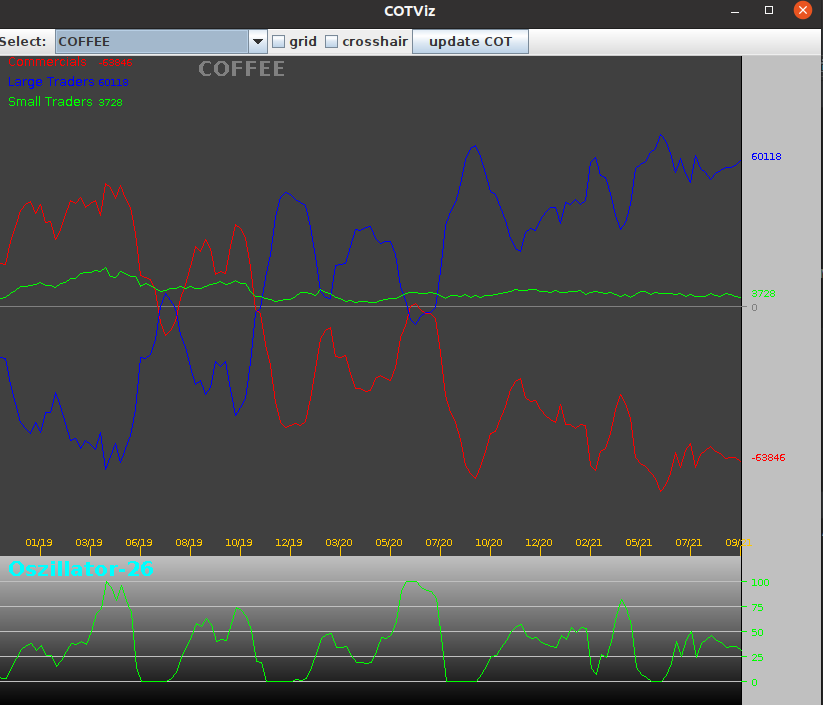
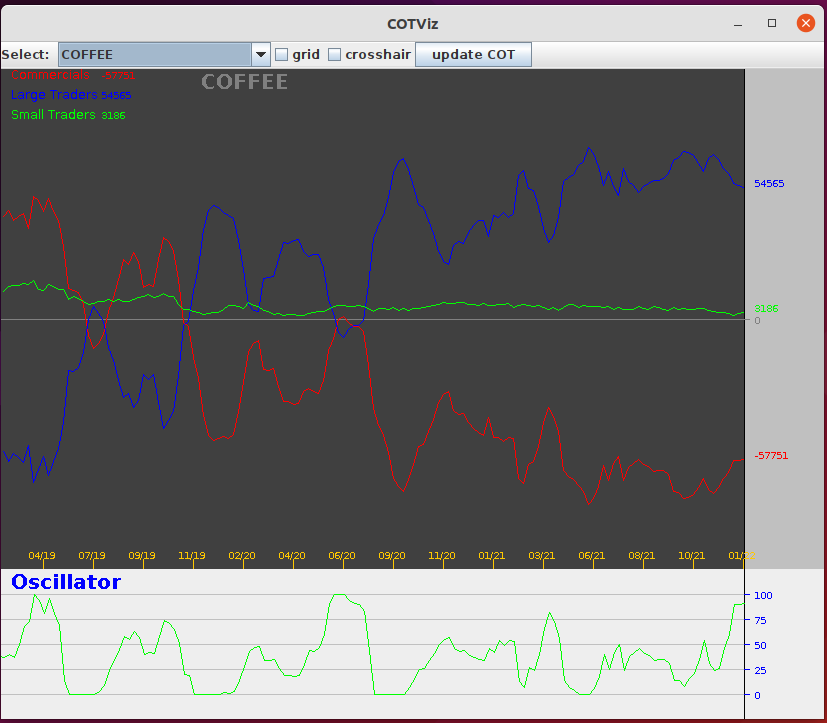
changed color

diff --git a/src/OscillatorPanel.java b/src/OscillatorPanel.java
@@ -30,17 +30,17 @@ public class OscillatorPanel extends JPanel{
         Point point1 = new Point(getWidth()/2, 0);
         Point point2 = new Point(getWidth()/2, getHeight());
 
-        Color color1 = Color.LIGHT_GRAY;
-        Color color2 = Color.BLACK;
-        final GradientPaint gp = new GradientPaint(point1, color1, point2, color2, true);
-        final Graphics2D g2 = (Graphics2D) g;
-        g2.setPaint(gp);
-        g.fillRect(0, 0, getWidth(), getHeight());
+        //Color color1 = Color.LIGHT_GRAY;
+        //Color color2 = Color.BLACK;
+        //final GradientPaint gp = new GradientPaint(point1, color1, point2, color2, true);
+        //final Graphics2D g2 = (Graphics2D) g;
+        //g2.setPaint(gp);
+        //g.fillRect(0, 0, getWidth(), getHeight());
 
-        g.setColor(Color.LIGHT_GRAY);
-        g.fillRect(getWidth()-space_right+1, 0, getWidth(), getHeight());
+        //g.setColor(Color.LIGHT_GRAY);
+        //g.fillRect(getWidth()-space_right+1, 0, getWidth(), getHeight());
 
-        g.setColor(Color.CYAN);
+        g.setColor(Color.BLUE);
         Font font = new Font("Verdana", Font.BOLD, 20);
         g.setFont(font);
         g.drawString("Oscillator", 10, 20);
@@ -57,7 +57,7 @@ public class OscillatorPanel extends JPanel{
             g.drawLine(0, getHeight()/2+25, getWidth()-COTPanel.space_right, getHeight()/2+25);
             g.drawLine(0, getHeight()/2+50, getWidth()-COTPanel.space_right, getHeight()/2+50);
 
-            g.setColor(Color.GREEN);
+            g.setColor(Color.BLUE);
             g.drawLine(getWidth()-COTPanel.space_right, getHeight()/2, getWidth()-COTPanel.space_right+5, getHeight()/2);
             g.drawLine(getWidth()-COTPanel.space_right, getHeight()/2-25, getWidth()-COTPanel.space_right+5, getHeight()/2-25);
             g.drawLine(getWidth()-COTPanel.space_right, getHeight()/2-50, getWidth()-COTPanel.space_right+5, getHeight()/2-50);
